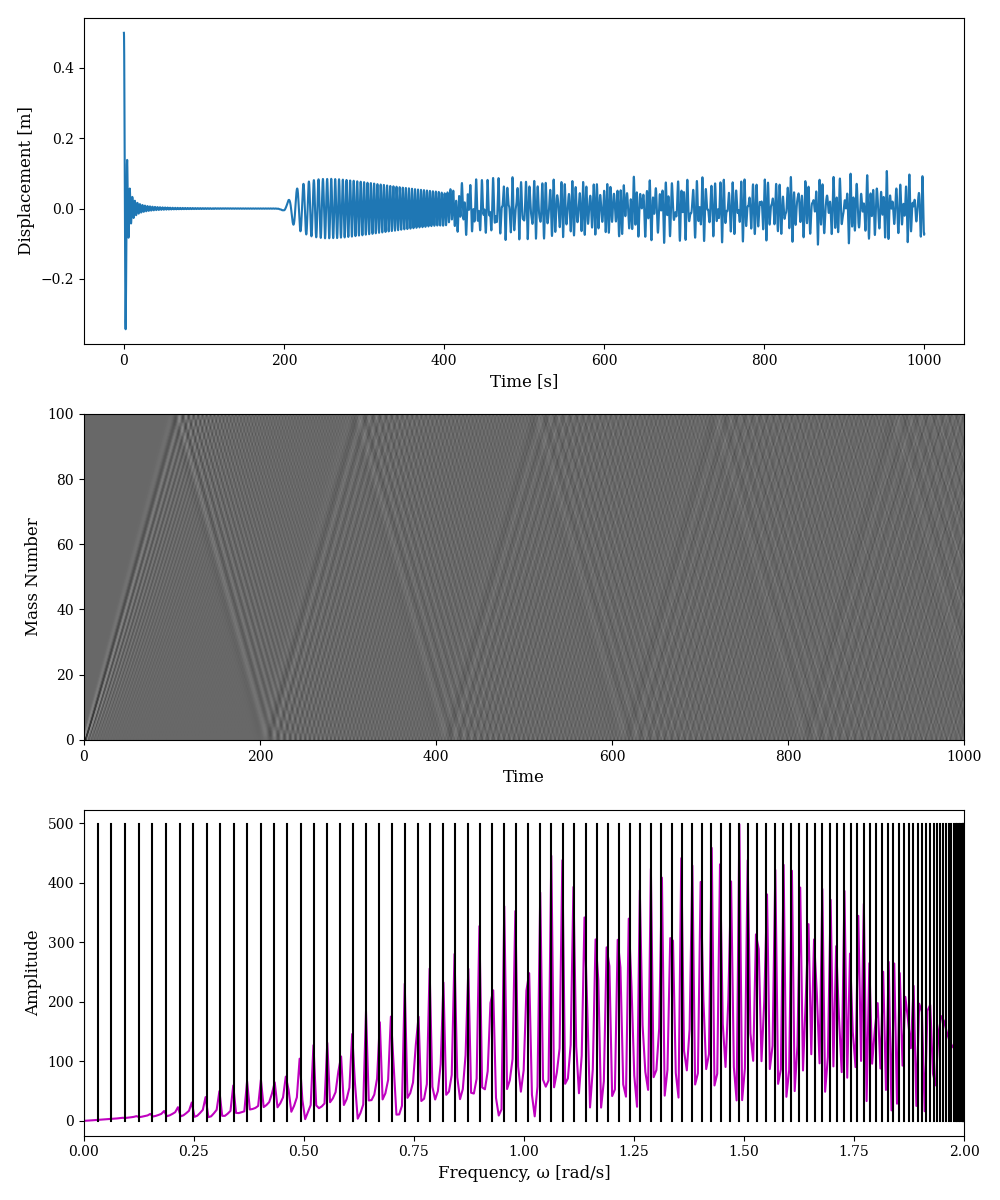
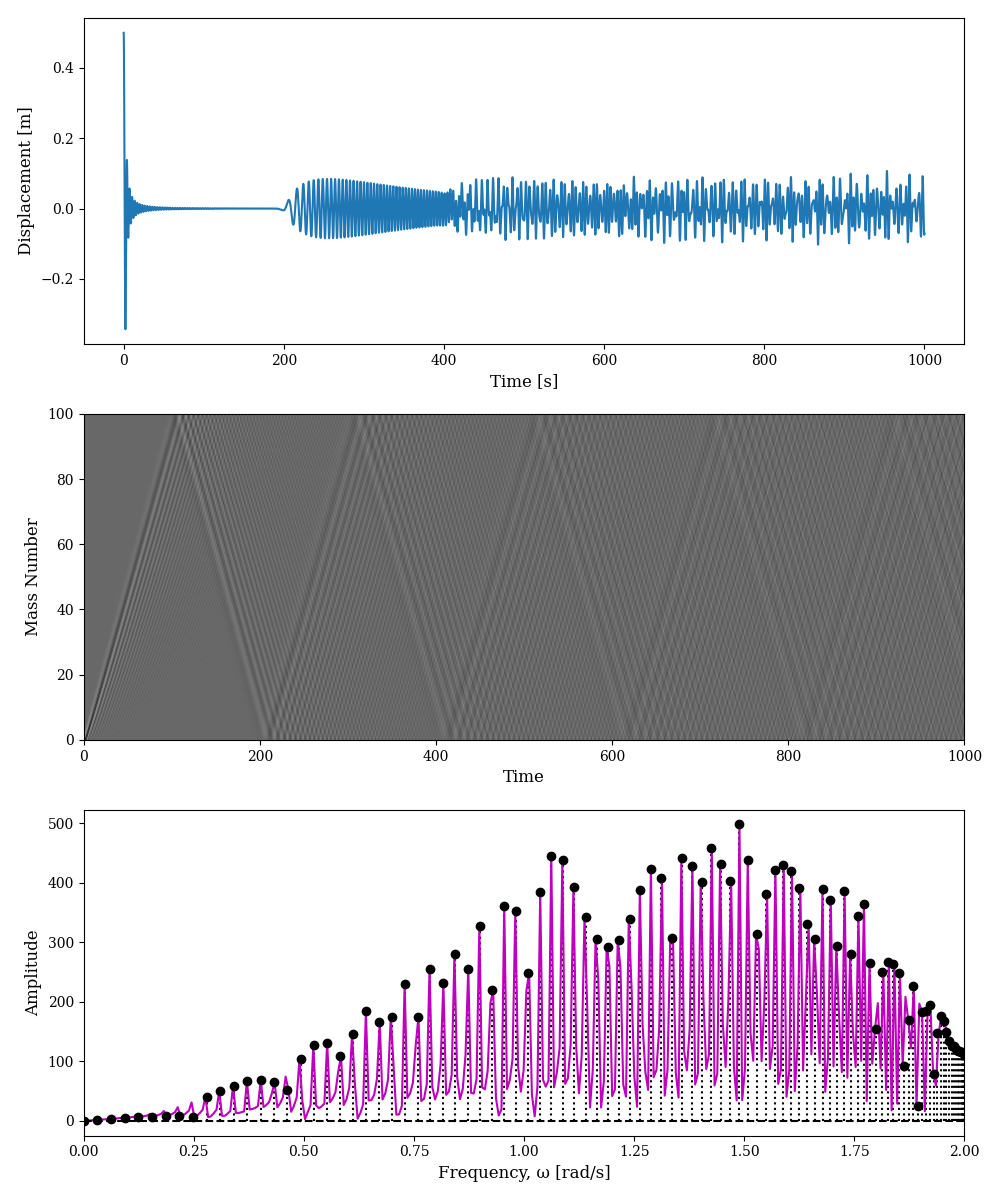
cont lab05

diff --git a/asgn/lab05/lab05.py b/asgn/lab05/lab05.py
@@ -1,5 +1,6 @@
 import numpy as np
 import matplotlib.pyplot as plt
+import scipy.signal as sig
 
 
 # class example Leap Frog
@@ -97,9 +98,9 @@ def crystalline(r, t):
 
 
 def crystalline_atomic(r, t):
-    k = 10
+    k = 1
     m = 1
-    a = 1000
+    a = 10
     n = int(len(r)/2)
     x = np.zeros(n+2)
     x[1:-1] = r[:n]
@@ -111,13 +112,14 @@ def crystalline_atomic(r, t):
 
 def total_energy(k, m, x, v):
     kinetic = np.sum(0.5 * m * v**2, axis=0)
-    potential = np.zeros_like(x)
+    potential = np.zeros((101, 100000))
     potential[0, :] = 0.5 * k * x[0, :] ** 2
     potential[-1, :] = 0.5 * k * x[-1, :] ** 2
-    for i in range(1, x.shape[0]-1, 1):
-        potential[i, :] = 0.5 * k * (x[i+1, :] - x[i, :])**2
+    for i in range(1, 99+1, 1):
+        potential[i, :] = 0.5 * k * (x[i, :] - x[i-1, :])**2
     potential = np.sum(potential, axis=0)
-    return kinetic + potential
+    total = kinetic + potential
+    return total
 
 
 def plot_it(t, r, n, w0, name):
@@ -132,18 +134,19 @@ def plot_it(t, r, n, w0, name):
     plt.xlabel("Time")
     plt.ylabel("Mass Number")
     
-    fft = np.fft.fft(r[0])
-    freq = np.fft.fftfreq(len(r[0]), dt)
-    fft = np.fft.fftshift(fft)
-    freq = np.fft.fftshift(freq)
+    fft = np.fft.rfft(r[0])
+    freq = np.fft.rfftfreq(len(r[0]), dt)
+    #fft = np.fft.fftshift(fft)
+    #freq = np.fft.fftshift(freq)
     fft = np.abs(fft)
     freq = freq * 2 * np.pi
+    w = 2 * w0 * np.sin(np.arange(0, n+1, 1) * np.pi / 2 / (n + 1))
+    idx = np.zeros_like(w, dtype=np.int64)
+    for i, _ in enumerate(idx):
+        idx[i] = (np.abs(freq - w[i])).argmin()
     plt.subplot(313)
     plt.plot(freq, fft, 'm')
-    top = np.max(np.abs(fft))
-    for l in range(0, masses+1, 1):
-        w = 2*w0*np.sin(l*np.pi/2/(masses+1))
-        plt.plot([w, w], [0, top], 'k')
+    plt.stem(w, fft[idx], 'k:', 'ko', 'k--')
     plt.xlim(0, 2)
     plt.xlabel('Frequency, ω [rad/s]')
     plt.ylabel('Amplitude')
@@ -222,42 +225,42 @@ if __name__ == '__main__':
     # plot_it(t, r, masses, np.sqrt(k/m), 'q2d.png')
 
     # Question 2f
-    masses = 100
-    x0 = np.zeros(masses)
-    v0 = np.zeros_like(x0)
-    r0 = np.concatenate((x0, v0))
-    r0[0] = 0.5
-    t0 = 0
-    tf = 10_000
-    dt = 0.1
-    k = 1
-    m = 1
-    tl, rl = leapfrog(crystalline, r0, t0, tf, dt)
-    tr, rr = rk4(crystalline, r0, t0, tf, dt)
-    el = total_energy(k, m, rl[:masses, :], rl[masses:, :])
-    er = total_energy(k, m, rr[:masses, :], rr[masses:, :])
-    plt.figure()
-    plt.plot(tl, el, '--m', label='Leapfrog Method')
-    plt.plot(tr, er, '--c', label='Runge-Kutta 4 Method')
-    plt.xlabel('Time [s]')
-    plt.ylabel('Energy [J]')
-    plt.title('Energy Conserved')
-    plt.legend(loc='best')
-    plt.savefig('q2f_energy.png')
-    plt.show()
-
-    # Question 2g
     # masses = 100
     # x0 = np.zeros(masses)
     # v0 = np.zeros_like(x0)
     # r0 = np.concatenate((x0, v0))
     # r0[0] = 0.5
     # t0 = 0
-    # tf = 1000
-    # dt = 0.01
-    # k = 10
+    # tf = 10_000
+    # dt = 0.1
+    # k = 1
     # m = 1
-    # t, r = leapfrog(crystalline_atomic, r0, t0, tf, dt)
-    # plot_it(t, r, masses, np.sqrt(k/m), 'q2g_k10a1000.png')
+    # tl, rl = leapfrog(crystalline, r0, t0, tf, dt)
+    # tr, rr = rk4(crystalline, r0, t0, tf, dt)
+    # el = total_energy(k, m, rl[:masses, :], rl[masses:, :])
+    # er = total_energy(k, m, rr[:masses, :], rr[masses:, :])
+    # plt.figure()
+    # plt.plot(tl, el, '--m', label='Leapfrog Method')
+    # plt.plot(tr, er, '--c', label='Runge-Kutta 4 Method')
+    # plt.xlabel('Time [s]')
+    # plt.ylabel('Energy [J]')
+    # plt.title('Energy Conserved')
+    # plt.legend(loc='best')
+    # plt.ylim(0.20, 0.30)
+    # plt.savefig('q2f_energy.png')
+
+    # Question 2g
+    masses = 100
+    x0 = np.zeros(masses)
+    v0 = np.zeros_like(x0)
+    r0 = np.concatenate((x0, v0))
+    r0[0] = 0.5
+    t0 = 0
+    tf = 1000
+    dt = 0.01
+    k = 1
+    m = 1
+    t, r = leapfrog(crystalline_atomic, r0, t0, tf, dt)
+    plot_it(t, r, masses, np.sqrt(k/m), 'q2g_a10.png')
 
     plt.show()
